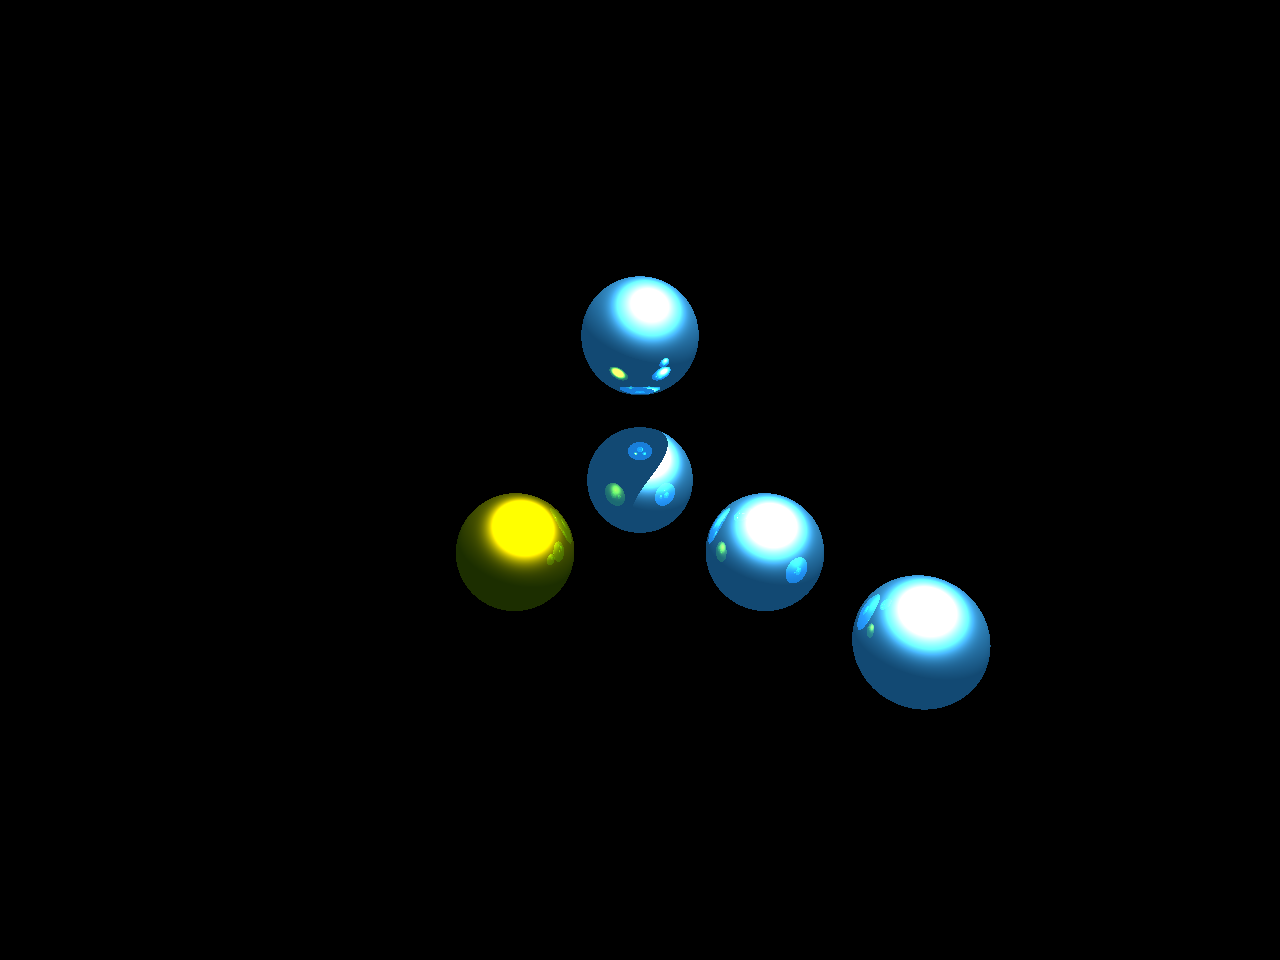
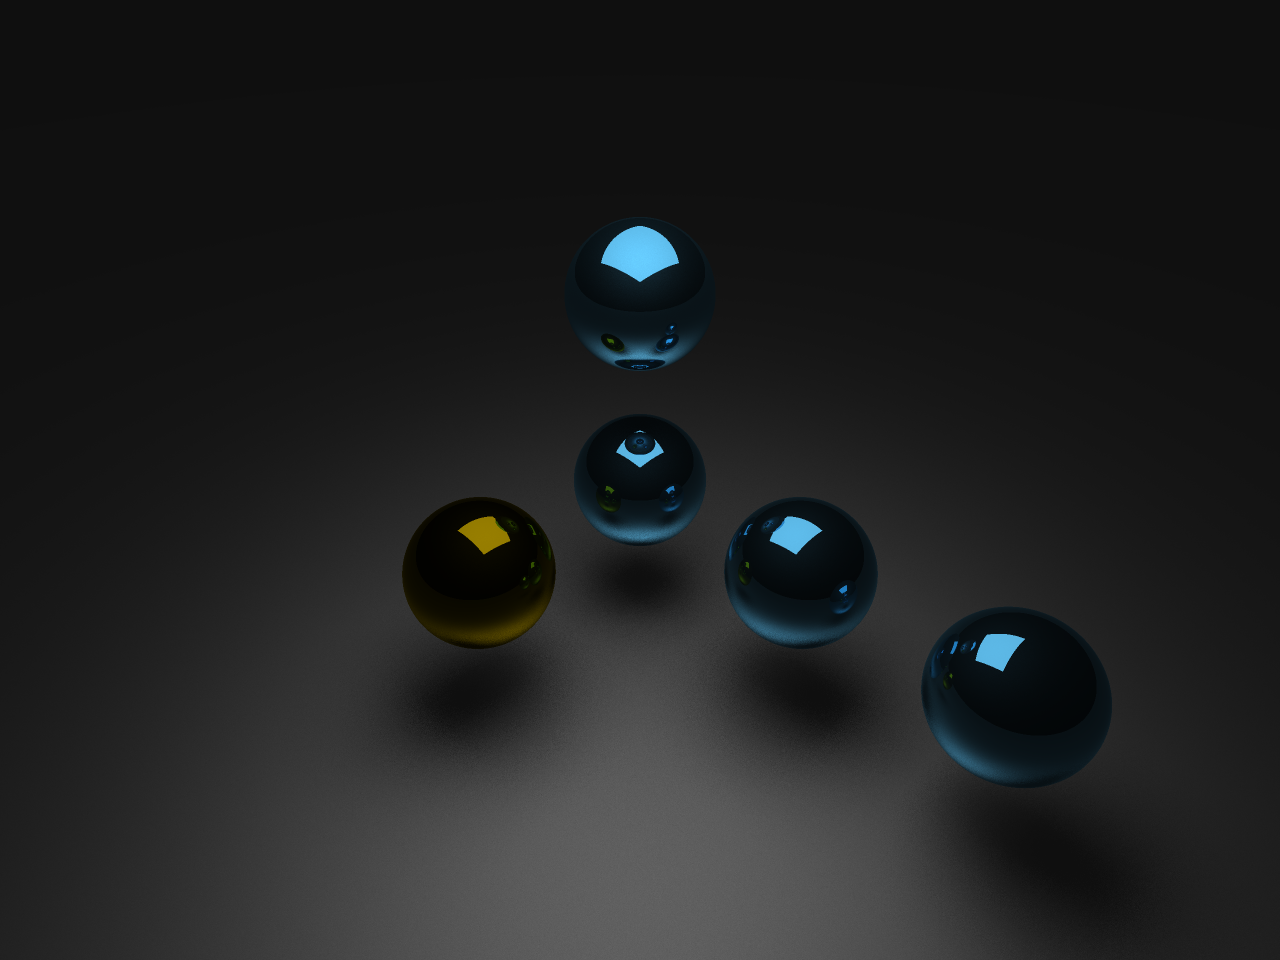
area light done. bugs fixed.

diff --git a/Hitate/hlightsource.cpp b/Hitate/hlightsource.cpp
@@ -1,4 +1,5 @@
 #include "hlightsource.h"
+#include <iostream>
 
 HLightSource::HLightSource()
 {
@@ -15,6 +16,25 @@ HColor HLightSource::getColor()
 	return material.color;
 }
 
+HColor HLightSource::calcL(HIntersection inter, HVec3 shader)
+{
+	HColor res(0, 0, 0);
+	HVec3 h = shader.normalized() - inter.ray.d;
+	HMaterial m = inter.obj->getMaterial();
+	double r1 = shader.normalized().dotPro(inter.norm);
+	double r2 = h.dotPro(inter.norm) / sqrt(2);
+	double d = shader.len2();
+	if (r1 > _Eps && m.diff > _Eps) {
+		res += m.color * getColor() * m.diff * r1 / d;
+	}
+
+	if (r2 > _Eps && m.spec > _Eps) {
+		res += m.color * getColor() * m.spec * pow(r2, _Spec_Power) / d;
+	}
+	//std::cout << res.r << ' ' << res.g << ' ' << res.b << std::endl;
+	return res;
+}
+
 HLightSource::~HLightSource()
 {
 }
@@ -24,9 +44,9 @@ HIntersection HLightSource::intersect(HRay ray)
 	return HIntersection();
 }
 
-double HLightSource::calcShade(HObjectUnion * objUnion, HIntersection intersection)
+HColor HLightSource::calcShade(HObjectUnion * objUnion, HIntersection intersection, int shadQuality)
 {
-	return 0.;
+	return HColor(0, 0, 0);
 }
 
 HPointLightSource::HPointLightSource()
@@ -45,11 +65,53 @@ HPointLightSource::~HPointLightSource()
 {
 }
 
-double HPointLightSource::calcShade(HObjectUnion * objUnion, HIntersection intersection)
+HColor HPointLightSource::calcShade(HObjectUnion * objUnion, HIntersection intersection, int shadeQuality)
 {
 	HRay shadeRay(intersection.pos, pos - intersection.pos);
 	double dist = (pos - intersection.pos).len();
-	intersection = objUnion->intersect(shadeRay);
-	if (intersection.hit && intersection.dis < dist) return 0;
-	return 1;
+	HIntersection inter = objUnion->intersect(shadeRay);
+	if (inter.hit && inter.dis < dist) return HColor(0, 0, 0);
+	return calcL(intersection, pos - intersection.pos);
+}
+
+HAreaLightSource::HAreaLightSource()
+{
+}
+
+HAreaLightSource::HAreaLightSource(HColor _color, HVec3 _pos, HVec3 _dx, HVec3 _dy)
+{
+	metadata = "HAreaLightSource";
+	material = HMaterial(_color);
+	pos = _pos; dx = _dx; dy = _dy;
+	norm = dx.crossPro(dy).normalized();
+}
+
+HAreaLightSource::~HAreaLightSource()
+{
+}
+
+HColor HAreaLightSource::calcShade(HObjectUnion * objUnion, HIntersection intersection, int shadeQuality)
+{
+	HColor res(0, 0, 0);
+	for (int i = -2; i < 2; i++) for (int j = -2; j < 2; j++) {
+		for (int k = 0; k < shadeQuality; k++) {
+			HVec3 tp = pos + dx * (randd() + i) / 2 + dy * (randd() + j) / 2;
+			HIntersection inter = objUnion->intersect(HRay(intersection.pos, tp - intersection.pos));
+			if (inter.hit && inter.dis < (tp - intersection.pos).len()) continue;
+			res += calcL(intersection, tp - intersection.pos);
+		}
+	}
+	return res / 16.0 / shadeQuality;
+}
+
+HIntersection HAreaLightSource::intersect(HRay ray)
+{
+	double d = ray.d.dotPro(norm);
+	if (abs(d) < _Eps) return HIntersection();
+	double l = (norm * pos.dotPro(norm) - ray.op).dotPro(norm) / d;
+	if (l < _Eps) return HIntersection();
+	HVec3 t = (ray.op + ray.d * l) - pos;
+	if (abs(dx.dotPro(t)) > dx.len2()) return HIntersection();
+	if (abs(dy.dotPro(t)) > dy.len2()) return HIntersection();
+	return HIntersection(t + pos, norm, ray, true, true, l, this);
 }

diff --git a/Hitate/hraytracer.hpp b/Hitate/hraytracer.hpp
@@ -4,45 +4,33 @@
 
 template<class Object_Union_T = HObjectVector>
 class HRaytracer : public HScene<typename Object_Union_T> {
-	HColor calcDiff(HIntersection inter, HRay ray)
+	HColor calcDiff(HIntersection inter)
 	{
 		HObject *obj = inter.obj;
 		HMaterial material = obj->getMaterial();
 		HColor res = material.color * this->background * material.diff;
+		HRay ray = inter.ray;
 //		if (res.r > _Eps || res.g > _Eps || res.b > _Eps) printf("Here!");
 		for (auto light : this->lightSourceList) {
-			double shade = light->calcShade(this->objUnion, inter);
-			if (shade < _Eps) continue;
-			HVec3 h = (light->getG() - inter.pos).normalized() - ray.d;
-			double r1 = (light->getG() - inter.pos).normalized().dotPro(inter.norm);
-			double r2 = h.dotPro(inter.norm) / sqrt(2);
-			
-			if (r1 > _Eps && material.diff > _Eps) {
-				res += material.color * light->getColor() * material.diff * r1 * shade;
-			}
-			
-			if (r2 > _Eps && material.spec > _Eps) {
-				res += material.color * light->getColor() * material.spec * pow(r2, _Spec_Power) * shade;
-			}
-			
+			res += light->calcShade(this->objUnion, inter);
 		}
 
 		return res;
 	}
-	HColor calcRefl(HIntersection inter, HRay ray, double weight, int depth)
+	HColor calcRefl(HIntersection inter, double weight, int depth)
 	{
 		HObject *obj = inter.obj;
 		HMaterial material = obj->getMaterial();
 		//HColor res = material.color * this->background * material.diff;
-		ray = ray.reflect(inter.pos, inter.norm);
+		HRay ray = inter.ray.reflect(inter.pos, inter.norm);
 		return material.color * material.refl * rayTrace(ray, weight*material.refl, depth + 1);
 		//return HColor(0, 0, 0);
 	}
-	HColor calcRefr(HIntersection inter, HRay ray, double weight, int depth)
+	HColor calcRefr(HIntersection inter, double weight, int depth)
 	{
 		HObject *obj = inter.obj;
 		HMaterial material = obj->getMaterial();
-		ray = ray.refract(inter.pos, inter.norm, inter.front ? material.rindex : 1 / material.rindex);
+		HRay ray = inter.ray.refract(inter.pos, inter.norm, inter.front ? material.rindex : 1 / material.rindex);
 
 		HColor rr = rayTrace(ray, weight*material.refr, depth + 1);
 		if (inter.front) return rr * material.refr;
@@ -56,17 +44,17 @@ class HRaytracer : public HScene<typename Object_Union_T> {
 		HColor res(0, 0, 0);
 		light = this->lightIntersect(ray);
 		object = this->objUnion->intersect(ray);
-		if (light.hit && !(object.hit || object.dis > light.dis)) {
+		if (light.hit && (!object.hit || object.dis > light.dis)) {
 			res = light.obj->getMaterial().color;
 		}
 		if (object.hit) {
 			HObject *obj = object.obj;
 			if (obj->getMaterial().diff > _Eps || obj->getMaterial().spec > _Eps)
-				res += calcDiff(object, ray);
+				res += calcDiff(object);
 			if (obj->getMaterial().refl > _Eps)
-				res += calcRefl(object, ray, weight, depth);
+				res += calcRefl(object, weight, depth);
 			if (obj->getMaterial().refr > _Eps)
-				res += calcRefr(object, ray, weight, depth);
+				res += calcRefr(object, weight, depth);
 		}
 		return res;
 	}

diff --git a/Hitate/hitate.cpp b/Hitate/hitate.cpp
@@ -13,17 +13,18 @@ const int w = 1280;
 int main() {
 	HRaytracer<> scene;
 	//HScene<> scene;
-	cv::Mat canvas(h, w, CV_8UC3, cv::Scalar(255, 255, 255));
-	scene.setCamera(new HEyeCamera(HVec3(10, 10, 10), HVec3(-1, -1, -1), HVec3(0, 0, 1), 70, .75));
-	scene.addObj(new HSphere(HVec3(0, 0, 0), 1, HMaterial(HColor(0x66 / 255.0, 0xcc / 255.0, 1.), HColor(0, 0, 0), 0.9, 0, 0.45, 0.8)));
-	scene.addObj(new HSphere(HVec3(3, 0, 0), 1, HMaterial(HColor(0.6, 0.5, 0), HColor(0, 0, 0), 0.9, 0, 0.45, 0.8)));
-	scene.addObj(new HSphere(HVec3(0, 3, 0), 1, HMaterial(HColor(0x66 / 255.0, 0xcc / 255.0, 1.), HColor(0, 0, 0), 0.9, 0, 0.45, 0.8)));
-	scene.addObj(new HSphere(HVec3(0, 6, 0), 1, HMaterial(HColor(0x66 / 255.0, 0xcc / 255.0, 1.), HColor(0, 0, 0), 0.9, 0, 0.45, 0.8)));
-	scene.addObj(new HSphere(HVec3(0, 0, 3), 1, HMaterial(HColor(0x66 / 255.0, 0xcc / 255.0, 1.), HColor(0, 0, 0), 0.9, 0, 0.45, 0.8)));
-	//scene.addObj(new HPlane())
-	scene.setBackground(HColor(0x66 / 255.0, 0xcc / 255.0, 1.));
-	scene.addLightSource(new HPointLightSource(HColor(1, 1, 1), HVec3(-5, 4, 25)));
-	cout << (scene.render(canvas, w, h) ? 1 : 0) << endl;
+	cv::Mat canvas(h * 2, w * 2, CV_8UC3, cv::Scalar(255, 255, 255));
+	scene.setCamera(new HEyeCamera(HVec3(2, 2, 2), HVec3(-1, -1, -1), HVec3(0, 0, 1), 70, .75));
+	scene.addObj(new HSphere(HVec3(0, 0, 0), 0.25, HMaterial(HColor(0x66 / 255.0, 0xcc / 255.0, 1.), HColor(0, 0, 0), 0.8, 0, 0.15, 0.05)));
+	scene.addObj(new HSphere(HVec3(0.75, 0, 0), .25, HMaterial(HColor(0.6, 0.5, 0), HColor(0, 0, 0), 0.9, 0, 0.05, 0.05)));
+	scene.addObj(new HSphere(HVec3(0, 0.75, 0), .25, HMaterial(HColor(0x66 / 255.0, 0xcc / 255.0, 1.), HColor(0, 0, 0), 0.8, 0, 0.15, 0.05)));
+	scene.addObj(new HSphere(HVec3(0, 1.5, 0), .25, HMaterial(HColor(0x66 / 255.0, 0xcc / 255.0, 1.), HColor(0, 0, 0), 0.8, 0, 0.15, 0.05)));
+	scene.addObj(new HSphere(HVec3(0, 0, 0.75), .25, HMaterial(HColor(0x66 / 255.0, 0xcc / 255.0, 1.), HColor(0, 0, 0), 0.8, 0, 0.15, 0.05)));
+	scene.addObj(new HPlane(HVec3(0, 0, -0.5), HVec3(0, 0, 1), HMaterial(HColor(1., 1., 1.), HColor(0, 0, 0), 0, 0, 0.3, 0.3)));
+	scene.setBackground(HColor(0.2, 0.2, 0.2));
+	scene.addLightSource(new HAreaLightSource(HColor(1, 1, 1), HVec3(0, 0, 2), HVec3(-1, 0, 0), HVec3(0, 1, 0)));
+	cout << (scene.render(canvas, w * 2, h * 2) ? 1 : 0) << endl;
+	cv::resize(canvas, canvas, cv::Size(canvas.size[1] / 2, canvas.size[0] / 2));
 	std::vector<int> compression_params;
 	compression_params.push_back(cv::IMWRITE_PNG_COMPRESSION);
 	cv::imshow("Hitate canvas", canvas);

diff --git a/Hitate/hlightsource.h b/Hitate/hlightsource.h
@@ -10,10 +10,11 @@ public:
 	HLightSource();
 	void setColor(HColor _color);
 	HColor getColor();
+	HColor calcL(HIntersection, HVec3);
 	virtual ~HLightSource();
 	virtual HVec3 getG() = 0;
 	virtual HIntersection intersect(HRay ray);
-	virtual double calcShade(HObjectUnion *objUnion, HIntersection intersection);
+	virtual HColor calcShade(HObjectUnion *objUnion, HIntersection intersection, int shadeQuality = 1);
 };
 
 class HPointLightSource : public HLightSource{
@@ -24,5 +25,17 @@ public:
 	HPointLightSource(HColor _color, HVec3 _pos);
 	virtual ~HPointLightSource();
 	virtual HVec3 getG() { return pos; }
-	virtual double calcShade(HObjectUnion *objUnion, HIntersection intersection);
+	virtual HColor calcShade(HObjectUnion *objUnion, HIntersection intersection, int shadeQuality = 1);
+};
+
+class HAreaLightSource : public HLightSource {
+private:
+	HVec3 pos, dx, dy, norm;
+public:
+	HAreaLightSource();
+	HAreaLightSource(HColor _color, HVec3 _pos, HVec3 _dx, HVec3 _dy);
+	virtual ~HAreaLightSource();
+	virtual HVec3 getG() { return pos; }
+	virtual HColor calcShade(HObjectUnion *objUnion, HIntersection intersection, int shadeQuality = 1);
+	virtual HIntersection intersect(HRay ray);
 };

diff --git a/Hitate/hobject.cpp b/Hitate/hobject.cpp
@@ -30,9 +30,9 @@ HIntersection::HIntersection()
 	obj = nullptr;
 }
 
-HIntersection::HIntersection(HVec3 _pos, HVec3 _norm, bool _hit, bool _front, double _dis, HObject *_obj)
+HIntersection::HIntersection(HVec3 _pos, HVec3 _norm, HRay _ray,bool _hit, bool _front, double _dis, HObject *_obj)
 {
-	pos = _pos, norm = _norm, hit = _hit, front = _front, dis = _dis, obj = _obj;
+	pos = _pos, norm = _norm, ray = _ray, hit = _hit, front = _front, dis = _dis, obj = _obj;
 }
 
 void HIntersection::update(HIntersection tr)
@@ -81,6 +81,7 @@ HIntersection HSphere::intersect(HRay ray)
 			}
 			res.hit = true;
 			res.obj = this;
+			res.ray = ray;
 		}
 	}
 	else {
@@ -109,12 +110,9 @@ HIntersection HPlane::intersect(HRay ray)
 {
 	double a = norm.dotPro(ray.d), b = norm.dotPro(ray.op - p);
 	double l;
-	if (abs(b) < _Eps) {
-		return HIntersection(ray.op, norm, true, true, 0.0, this);
-	}
-	else if (abs(a) < _Eps || (l=-b/a)<_Eps) {
+	if (abs(b) < _Eps || abs(a) < _Eps || (l=-b/a)<_Eps) {
 		return HIntersection();
 	}
-	return HIntersection(ray.calcPoint(l), a < 0 ? -norm : norm, true, a < 0, l, this);
+	return HIntersection(ray.calcPoint(l), a < 0 ? norm : -norm, ray, true, a < 0, l, this);
 }
 

diff --git a/Hitate/hutils.cpp b/Hitate/hutils.cpp
@@ -125,6 +125,11 @@ HColor operator*(double a, HColor b)
 	return HColor(a*b.r, a*b.g, a*b.b);
 }
 
+HColor operator/(HColor a, double b)
+{
+	return HColor(a.r / b, a.g / b, a.b / b);
+}
+
 HColor operator*(HColor a, HColor b)
 {
 	return HColor(a.r*b.r, a.g*b.g, a.b*b.b);
@@ -145,6 +150,12 @@ HColor & operator*=(HColor & a, double b)
 HColor & operator*=(HColor & a, HColor b)
 {
 	a.r *= b.r; a.g *= b.g; a.b *= b.b;
+	return a;
+}
+
+HColor & operator/=(HColor & a, double b)
+{
+	a.r /= b; a.g /= b; a.b /= b;
 	return a;
 }
 

diff --git a/Hitate/hutils.h b/Hitate/hutils.h
@@ -41,10 +41,12 @@ struct HColor {
 HColor operator+ (HColor a, HColor b);
 HColor operator* (HColor a, double b);
 HColor operator* (double a, HColor b);
+HColor operator/ (HColor a, double b); 
 HColor operator* (HColor a, HColor b);
 HColor& operator+= (HColor &a, HColor b);
 HColor& operator*= (HColor &a, double b);
 HColor& operator*= (HColor &a, HColor b);
+HColor& operator/= (HColor &a, double b);
 
 struct HRay {
 	HVec3 op, d;

diff --git a/Hitate/hobject.h b/Hitate/hobject.h
@@ -23,11 +23,12 @@ public:
 
 struct HIntersection {
 	HVec3 pos, norm;
+	HRay ray;
 	bool hit, front;
 	double dis;
 	HObject *obj;
 	HIntersection();
-	HIntersection(HVec3 _pos, HVec3 _norm, bool _hit, bool _front, double _dis, HObject * _obj);
+	HIntersection(HVec3 _pos, HVec3 _norm, HRay _ray, bool _hit, bool _front, double _dis, HObject * _obj);
 	void update(HIntersection tr);
 };
 
